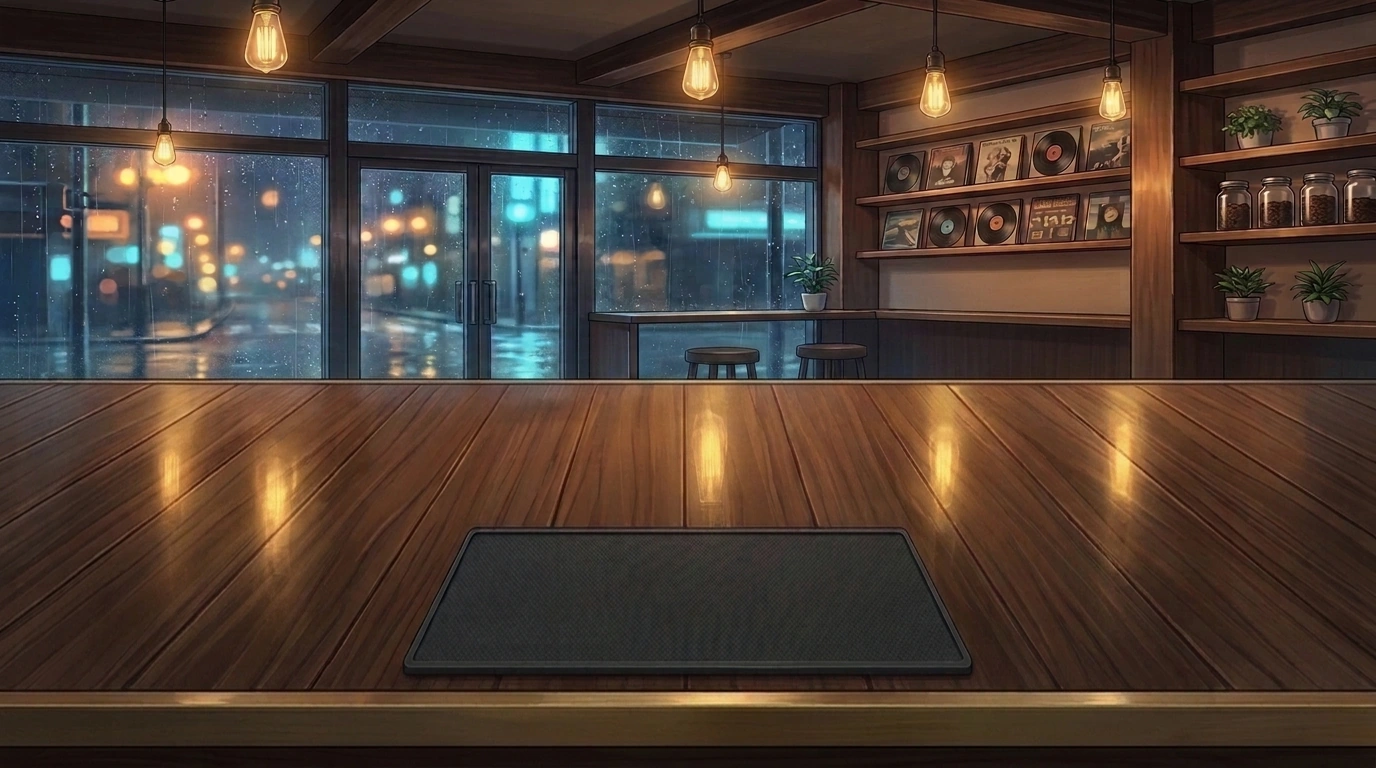
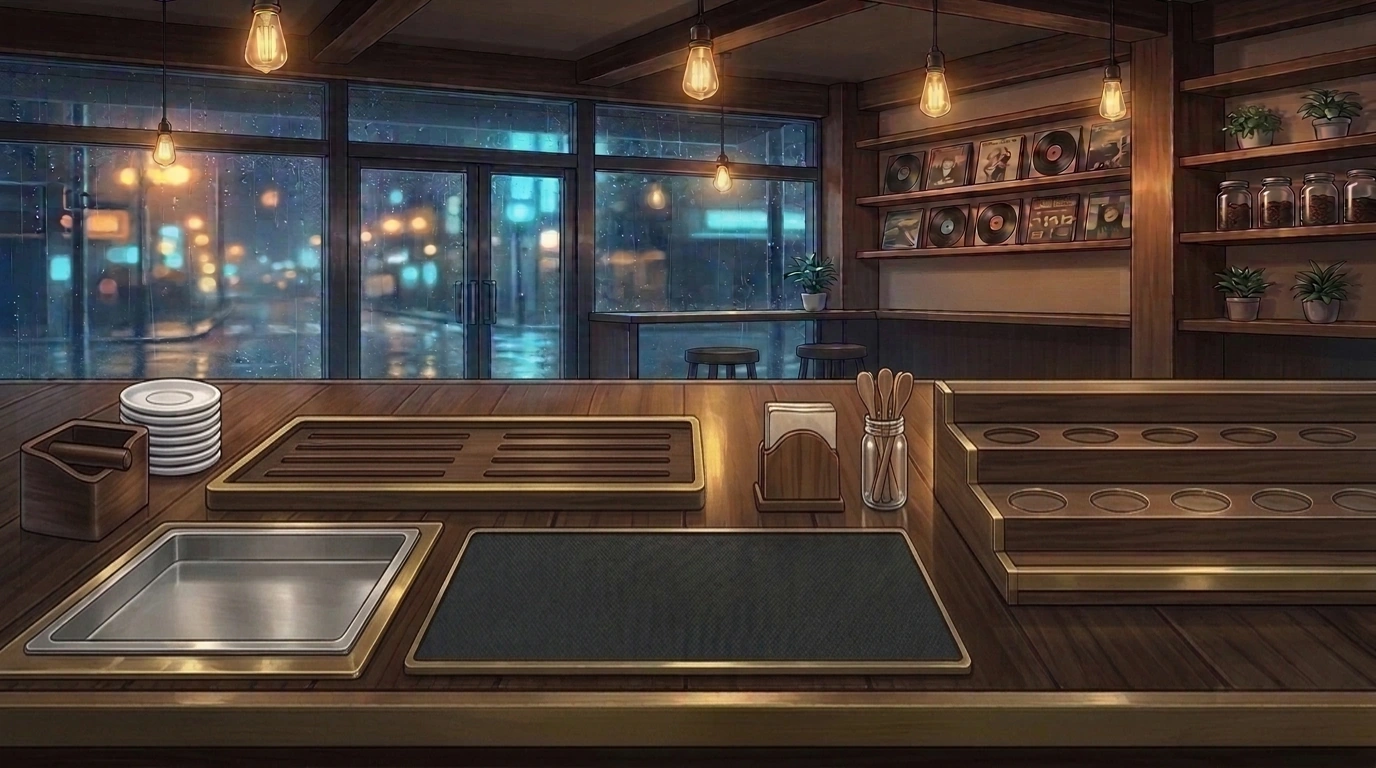
feat(midnight-cafe): move capacity meter beside cup and upgrade counter to 4-zone barista workstation

Changed region(s): [[0.0, 0.4688, 1.0, 0.9062], [0.75, 0.2812, 0.7812, 0.3125]]

diff --git a/games/midnight-cafe/index.html b/games/midnight-cafe/index.html
@@ -5,7 +5,7 @@
   <meta name="viewport" content="width=device-width, initial-scale=1.0, maximum-scale=1.0, user-scalable=no" />
   <title>放学以后的深夜咖啡馆 · 第一人称咖啡师料理台 (Pxlsan Midnight Cafe)</title>
   <link rel="icon" href="assets/favicon.ico" type="image/x-icon" />
-  <link rel="stylesheet" href="src/arcade/midnight-cafe.css?v=5" />
+  <link rel="stylesheet" href="src/arcade/midnight-cafe.css?v=6" />
 </head>
 <body class="pov-cafe-body">
   <!-- 暖钨丝灯环境光晕与暗角层 -->
@@ -104,7 +104,7 @@
       <img
         id="scene-backdrop-img"
         class="scene-backdrop-img"
-        src="assets/cafe/props/bg_pov_sunset.webp?v=5"
+        src="assets/cafe/props/bg_pov_sunset.webp?v=6"
         alt="第一人称深夜咖啡馆吧台全景"
       />
       <div class="window-tint-layer" id="window-tint-layer"></div>
@@ -363,45 +363,56 @@
               <span>🧊</span><span>🧊</span><span>🧊</span>
             </div>
 
-            <!-- 中央主饮品杯 (支持拖拽直接递给上方女主！) -->
-            <div
-              class="center-interactive-cup-wrap"
-              id="center-draggable-cup"
-              draggable="true"
-              title="做好后可向上拖拽直接递给客人，或点击右侧铜铃奉茶"
-            >
-              <!-- 真实杯具立绘底衬 + 透明液体分层视窗 -->
-              <div class="live-cup-vessel" id="live-cup-vessel" data-temp="hot">
-                <img
-                  id="live-cup-prop-bg"
-                  class="live-cup-prop-bg"
-                  src="assets/cafe/props/prop_cup_hot.webp"
-                  alt="当前杯具"
-                />
-                <!-- 杯口热气 -->
-                <div class="vessel-steam-wisps" id="vessel-steam-wisps">
-                  <span>♨</span><span>♨</span><span>♨</span>
-                </div>
-                <!-- 杯顶圆面实时拉花缩略预览 -->
-                <div class="cup-top-latte-badge" id="cup-top-latte-badge" title="点击打开奶泡拉花放大镜">
-                  <span id="served-cup-art">☕</span>
-                </div>
-                <!-- 杯身四层液体实时染色液位 -->
-                <div class="vessel-inner">
-                  <div class="vessel-layer layer-topping" id="layer-topping"></div>
-                  <div class="vessel-layer layer-secondary" id="layer-secondary"></div>
-                  <div class="vessel-layer layer-primary" id="layer-primary"></div>
-                  <div class="vessel-layer layer-base" id="layer-base"></div>
-                  <!-- 冰块层 -->
+            <!-- 中央主饮品杯 + 右侧独立分层容量进度条 (不在陶瓷杯上叠矩形框！) -->
+            <div class="cup-and-side-meter-group">
+              <div
+                class="center-interactive-cup-wrap"
+                id="center-draggable-cup"
+                title="按住左键可将做好的饮品直接向上递给客人，或点击右侧铜铃奉茶"
+              >
+                <div class="live-cup-vessel" id="live-cup-vessel" data-temp="hot">
+                  <img
+                    id="live-cup-prop-bg"
+                    class="live-cup-prop-bg"
+                    src="assets/cafe/props/prop_cup_hot.webp"
+                    alt="当前杯具"
+                  />
+                  <!-- 杯口热气 -->
+                  <div class="vessel-steam-wisps" id="vessel-steam-wisps">
+                    <span>♨</span><span>♨</span><span>♨</span>
+                  </div>
+                  <!-- 冰块标识 (冰饮时浮现于杯口) -->
                   <div class="vessel-ice-cubes hidden" id="vessel-ice-cubes">
                     <span class="ice-cube">🧊</span>
                     <span class="ice-cube">🧊</span>
-                    <span class="ice-cube">🧊</span>
+                  </div>
+                  <!-- 杯顶圆面实时拉花徽章 -->
+                  <div class="cup-top-latte-badge" id="cup-top-latte-badge" title="点击打开奶泡拉花放大镜">
+                    <span id="served-cup-art">☕</span>
                   </div>
                 </div>
-                <div class="vessel-handle"></div>
+                <span class="vessel-temp-tag" id="vessel-temp-tag">🔥 65°C 暖心陶瓷杯</span>
               </div>
-              <span class="vessel-temp-tag" id="vessel-temp-tag">🔥 65°C 暖心热饮</span>
+
+              <!-- 独立在杯子旁边的竖向分层容量进度条 -->
+              <div class="side-capacity-meter" title="杯中当前饮品容量与风味分层进度条">
+                <div class="capacity-meter-head">容量</div>
+                <div class="capacity-tube-wrap">
+                  <div class="capacity-ticks">
+                    <span>100</span>
+                    <span>75</span>
+                    <span>50</span>
+                    <span>25</span>
+                  </div>
+                  <div class="vessel-inner capacity-progress-tube">
+                    <div class="vessel-layer layer-topping" id="layer-topping"></div>
+                    <div class="vessel-layer layer-secondary" id="layer-secondary"></div>
+                    <div class="vessel-layer layer-primary" id="layer-primary"></div>
+                    <div class="vessel-layer layer-base" id="layer-base"></div>
+                  </div>
+                </div>
+                <strong class="capacity-pct-text" id="cup-capacity-pct">55%</strong>
+              </div>
             </div>
 
             <!-- 杯垫右侧：拉花钢杯道具 + 推杯奉茶铜铃 -->
@@ -669,7 +680,7 @@
     <span class="hand-held-prop-label" id="hand-held-prop-label">大吉岭红茶</span>
   </div>
 
-  <script src="src/arcade/spine-rig-player.js?v=5"></script>
-  <script src="src/arcade/midnight-cafe.js?v=5"></script>
+  <script src="src/arcade/spine-rig-player.js?v=6"></script>
+  <script src="src/arcade/midnight-cafe.js?v=6"></script>
 </body>
 </html>

diff --git a/games/midnight-cafe/src/arcade/midnight-cafe.css b/games/midnight-cafe/src/arcade/midnight-cafe.css
@@ -3765,3 +3765,127 @@ body.pov-cafe-body {
   width: 8px !important;
   transform: translateX(-50%);
 }
+
+
+/* ============================================================================
+   V6: 陶瓷杯纯净无遮挡展示 + 独立竖向分层容量进度管 + 四分区嵌入式咖啡师工作台对齐
+   ============================================================================ */
+
+.cup-and-side-meter-group {
+  display: flex;
+  align-items: center;
+  justify-content: center;
+  gap: 14px;
+}
+
+/* 陶瓷杯与玻璃杯本体 100% 干净呈现，不再在杯腹叠加半透明矩形框 */
+.center-interactive-cup-wrap .live-cup-vessel {
+  position: relative;
+  width: 152px !important;
+  height: 166px !important;
+  display: flex;
+  align-items: center;
+  justify-content: center;
+}
+
+.center-interactive-cup-wrap .live-cup-prop-bg {
+  position: relative !important;
+  inset: auto !important;
+  width: 150px !important;
+  height: 150px !important;
+  object-fit: contain;
+  filter: drop-shadow(0 14px 18px rgba(0, 0, 0, 0.82)) !important;
+}
+
+/* 冰块浮于杯口上方，不遮挡杯身 */
+.center-interactive-cup-wrap .vessel-ice-cubes {
+  position: absolute;
+  top: 22px;
+  left: 50%;
+  transform: translateX(-50%);
+  z-index: 4;
+  display: flex;
+  gap: 3px;
+  font-size: 16px;
+  filter: drop-shadow(0 2px 6px rgba(0, 0, 0, 0.7));
+  pointer-events: none;
+}
+
+/* 杯子旁边的独立竖向分层容量进度管 */
+.side-capacity-meter {
+  display: flex;
+  flex-direction: column;
+  align-items: center;
+  gap: 4px;
+  padding: 7px 8px;
+  border-radius: 14px;
+  background: rgba(20, 11, 7, 0.78);
+  backdrop-filter: blur(8px);
+  border: 1.5px solid rgba(255, 195, 105, 0.52);
+  box-shadow: 0 8px 20px rgba(0, 0, 0, 0.65), inset 0 1px 0 rgba(255, 240, 210, 0.2);
+}
+
+.capacity-meter-head {
+  font-size: 10.5px;
+  font-weight: 900;
+  color: #ffd88a;
+  letter-spacing: 0.5px;
+}
+
+.capacity-tube-wrap {
+  display: flex;
+  align-items: stretch;
+  gap: 5px;
+  height: 108px;
+}
+
+.capacity-ticks {
+  display: flex;
+  flex-direction: column;
+  justify-content: space-between;
+  font-size: 9px;
+  font-weight: 800;
+  color: #c9ae91;
+  text-align: right;
+  padding: 2px 0;
+}
+
+.vessel-inner.capacity-progress-tube {
+  position: relative !important;
+  width: 22px !important;
+  height: 108px !important;
+  margin: 0 !important;
+  border-radius: 999px !important;
+  border: 2px solid rgba(255, 224, 166, 0.75) !important;
+  background: rgba(10, 5, 3, 0.85) !important;
+  box-shadow: inset 0 3px 8px rgba(0, 0, 0, 0.85), 0 0 10px rgba(255, 179, 71, 0.22) !important;
+  overflow: hidden;
+  display: flex;
+  flex-direction: column;
+  justify-content: flex-end;
+}
+
+/* 玻璃量管高光条 */
+.vessel-inner.capacity-progress-tube::after {
+  content: "";
+  position: absolute;
+  top: 4px;
+  bottom: 4px;
+  left: 3px;
+  width: 4px;
+  border-radius: 99px;
+  background: linear-gradient(180deg, rgba(255, 255, 255, 0.45), rgba(255, 255, 255, 0.08));
+  pointer-events: none;
+}
+
+.vessel-inner.capacity-progress-tube .vessel-layer {
+  width: 100%;
+  transition: height 0.38s cubic-bezier(0.22, 1, 0.36, 1), background-color 0.28s ease;
+  border-top: 1px solid rgba(255, 255, 255, 0.28);
+}
+
+.capacity-pct-text {
+  font-size: 11.5px;
+  font-weight: 900;
+  color: #ffe082;
+}

diff --git a/games/midnight-cafe/src/arcade/midnight-cafe.js b/games/midnight-cafe/src/arcade/midnight-cafe.js
@@ -22,7 +22,7 @@
       id: 'dusk',
       name: '白天晴朗档',
       time: '11:30',
-      sceneImg: 'assets/cafe/props/bg_pov_day.webp?v=5',
+      sceneImg: 'assets/cafe/props/bg_pov_day.webp?v=6',
       tint: 'linear-gradient(180deg, rgba(255, 245, 220, 0.06) 0%, rgba(40, 24, 14, 0.14) 100%)',
       weatherIcon: '☀',
       weatherText: '晴空暖阳 · 街角绿树微风 · 第一人称吧台视角',
@@ -33,7 +33,7 @@
       id: 'rain',
       name: '下午夕阳档',
       time: '17:30',
-      sceneImg: 'assets/cafe/props/bg_pov_sunset.webp?v=5',
+      sceneImg: 'assets/cafe/props/bg_pov_sunset.webp?v=6',
       tint: 'linear-gradient(180deg, rgba(255, 140, 60, 0.08) 0%, rgba(35, 18, 10, 0.18) 100%)',
       weatherIcon: '🌇',
       weatherText: '放学夕阳余晖 · 金色霞光洒满木吧台',
@@ -44,7 +44,7 @@
       id: 'late',
       name: '晚上雨夜档',
       time: '21:30',
-      sceneImg: 'assets/cafe/props/bg_first_person_counter.webp?v=5',
+      sceneImg: 'assets/cafe/props/bg_first_person_counter.webp?v=6',
       tint: 'linear-gradient(180deg, rgba(16, 28, 38, 0.15) 0%, rgba(24, 13, 9, 0.25) 100%)',
       weatherIcon: '🌧',
       weatherText: '窗外细雨淅沥 · 钨丝灯琥珀微醺 · 深夜吧台',
@@ -2665,27 +2665,37 @@
       Boolean(addonObjs[2])
     );
 
-    // 实时渲染玻璃杯液体分层颜色与高度
+    // 实时渲染杯子旁边的竖向分层容量进度条颜色与高度
     const layerBase = document.getElementById('layer-base');
     const layerPrimary = document.getElementById('layer-primary');
     const layerSecondary = document.getElementById('layer-secondary');
     const layerTopping = document.getElementById('layer-topping');
+    const capPctEl = document.getElementById('cup-capacity-pct');
+
+    const baseH = addonObjs.length === 0 ? 55 : addonObjs.length === 1 ? 52 : addonObjs.length === 2 ? 48 : 44;
+    const p1H = addonObjs[0] ? (addonObjs.length === 1 ? 30 : 20) : 0;
+    const p2H = addonObjs[1] ? 20 : 0;
+    const p3H = addonObjs[2] ? 16 : 0;
+    const totalPct = Math.min(100, baseH + p1H + p2H + p3H);
 
     if (layerBase) {
-      layerBase.style.height = addonObjs.length ? '44%' : '78%';
+      layerBase.style.height = `${baseH}%`;
       layerBase.style.background = baseObj.color;
     }
     if (layerPrimary) {
-      layerPrimary.style.height = addonObjs[0] ? '18%' : '0%';
+      layerPrimary.style.height = `${p1H}%`;
       layerPrimary.style.background = addonObjs[0] ? addonObjs[0].color : 'transparent';
     }
     if (layerSecondary) {
-      layerSecondary.style.height = addonObjs[1] ? '16%' : '0%';
+      layerSecondary.style.height = `${p2H}%`;
       layerSecondary.style.background = addonObjs[1] ? addonObjs[1].color : 'transparent';
     }
     if (layerTopping) {
-      layerTopping.style.height = addonObjs[2] ? '16%' : '0%';
+      layerTopping.style.height = `${p3H}%`;
       layerTopping.style.background = addonObjs[2] ? addonObjs[2].color : 'transparent';
+    }
+    if (capPctEl) {
+      capPctEl.textContent = `${totalPct}%`;
     }
 
     // 冰块、热气与杯具真实立绘显隐
